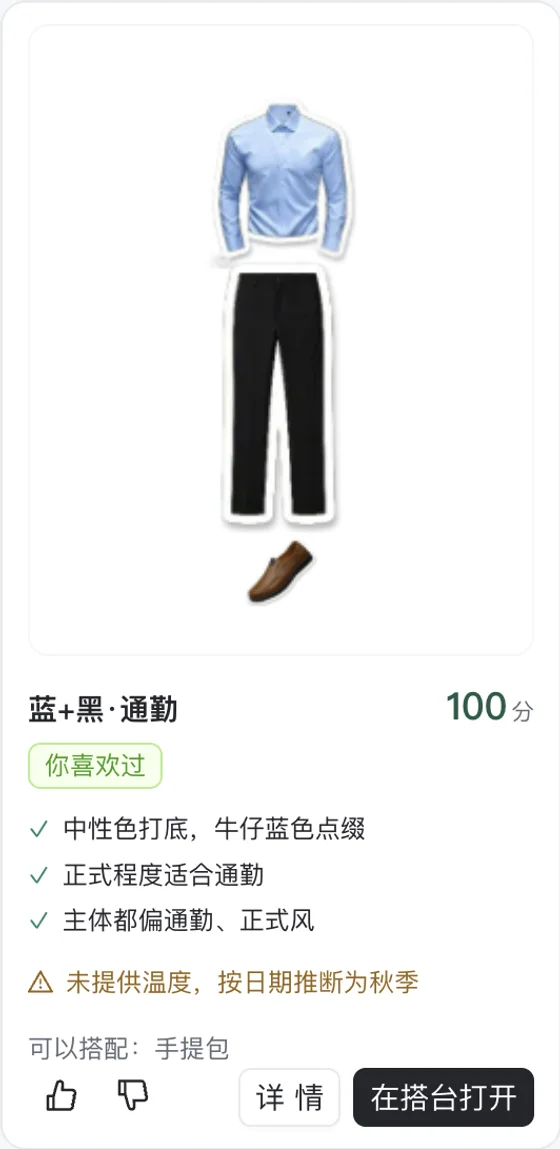
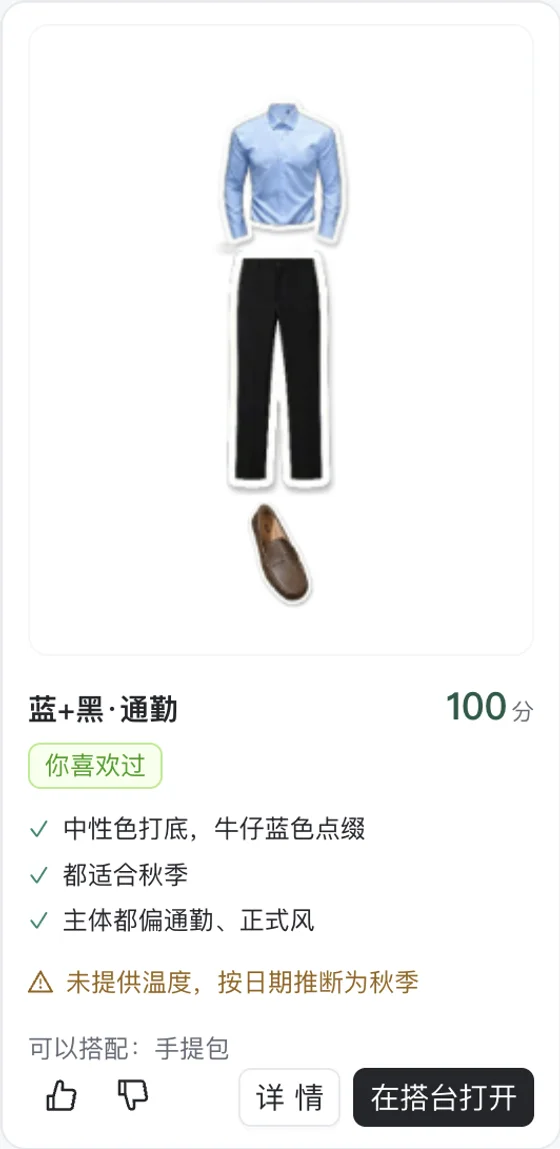
feat: 推荐依据横向卡片增加到 7 张，覆盖通勤、休闲、不同分数

Changed region(s): [[0.3643, 0.0914, 0.6375, 0.5483], [0.1214, 0.7311, 0.4857, 0.792]]

diff --git a/src/i18n/locales/en.ts b/src/i18n/locales/en.ts
@@ -175,13 +175,17 @@ export const en: Messages = {
 			],
 		},
 		reel: {
-			eyebrow: "Three for one day",
+			eyebrow: "A day of picks",
 			title: "Several outfits at once, each with its reasons.",
 			hint: "Swipe sideways for more",
 			items: [
 				"Blue + black · commute · 100 pts",
-				"Grey · casual · 99 pts",
-				"Black + brown · casual · 97 pts",
+				"White + black · commute · 100 pts",
+				"White + denim blue · casual · 100 pts",
+				"Black + grey · casual · 100 pts",
+				"Beige + denim blue · casual · 92 pts",
+				"Grey · casual · 100 pts",
+				"Black + brown · casual · 100 pts",
 			],
 		},
 		lab: {

diff --git a/src/i18n/locales/zh.ts b/src/i18n/locales/zh.ts
@@ -128,10 +128,18 @@ export const zh = {
 			],
 		},
 		reel: {
-			eyebrow: "同一天的三套",
+			eyebrow: "同一天的几套",
 			title: "一次给你几套，每套都附着依据。",
 			hint: "左右滑动，看更多",
-			items: ["蓝+黑·通勤 · 100 分", "灰·休闲 · 99 分", "黑+棕·休闲 · 97 分"],
+			items: [
+				"蓝+黑·通勤 · 100 分",
+				"白+黑·通勤 · 100 分",
+				"白+牛仔蓝·休闲 · 100 分",
+				"黑+灰·休闲 · 100 分",
+				"米+牛仔蓝·休闲 · 92 分",
+				"灰·休闲 · 100 分",
+				"黑+棕·休闲 · 100 分",
+			],
 		},
 		lab: {
 			eyebrow: "动手试试",

diff --git a/src/components/pages/ReasonReel.tsx b/src/components/pages/ReasonReel.tsx
@@ -7,13 +7,9 @@ interface ReasonReelCopy {
 	items: string[];
 }
 
-const cards = [
-	"/shots/reason-1.webp",
-	"/shots/reason-2.webp",
-	"/shots/reason-3.webp",
-];
+const cards = [1, 2, 3, 4, 5, 6, 7].map((n) => `/shots/reason-${n}.webp`);
 
-/** Three real recommendation cards in a sideways scroller, with a hint, a progress bar and mouse dragging. */
+/** Real recommendation cards in a sideways scroller, with a hint, a progress bar and mouse dragging. */
 export function ReasonReel({ copy }: { copy: ReasonReelCopy }) {
 	const track = useRef<HTMLDivElement>(null);
 	const [progress, setProgress] = useState(0);

diff --git a/src/styles.css b/src/styles.css
@@ -2398,6 +2398,7 @@ button:hover .roll > span {
 }
 .reel-track {
   display: flex;
+  align-items: flex-start;
   gap: clamp(0.9rem, 2vw, 1.5rem);
   padding: 0.5rem max(1.25rem, calc((100% - 84rem) / 2)) 1.25rem;
   overflow-x: auto;
